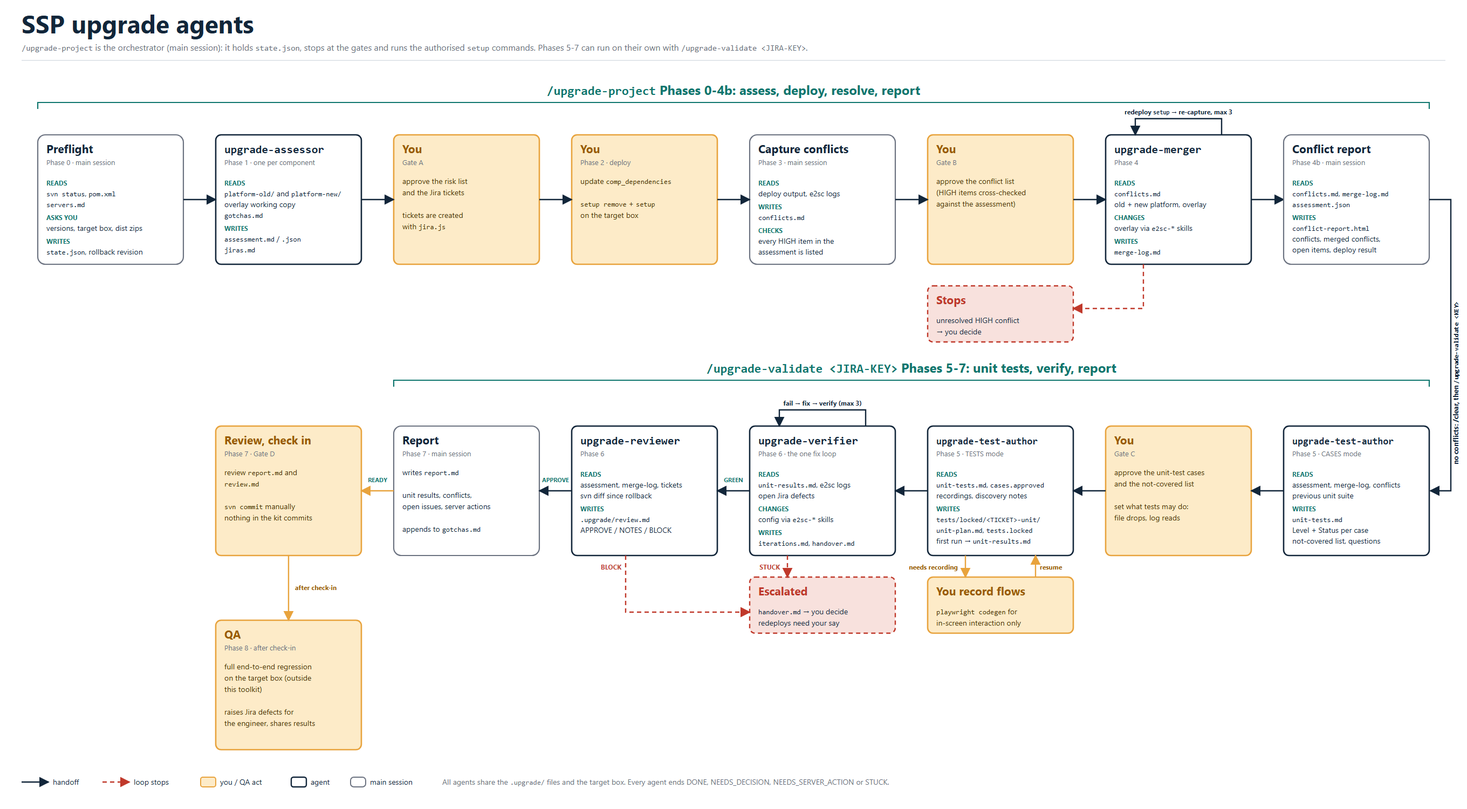
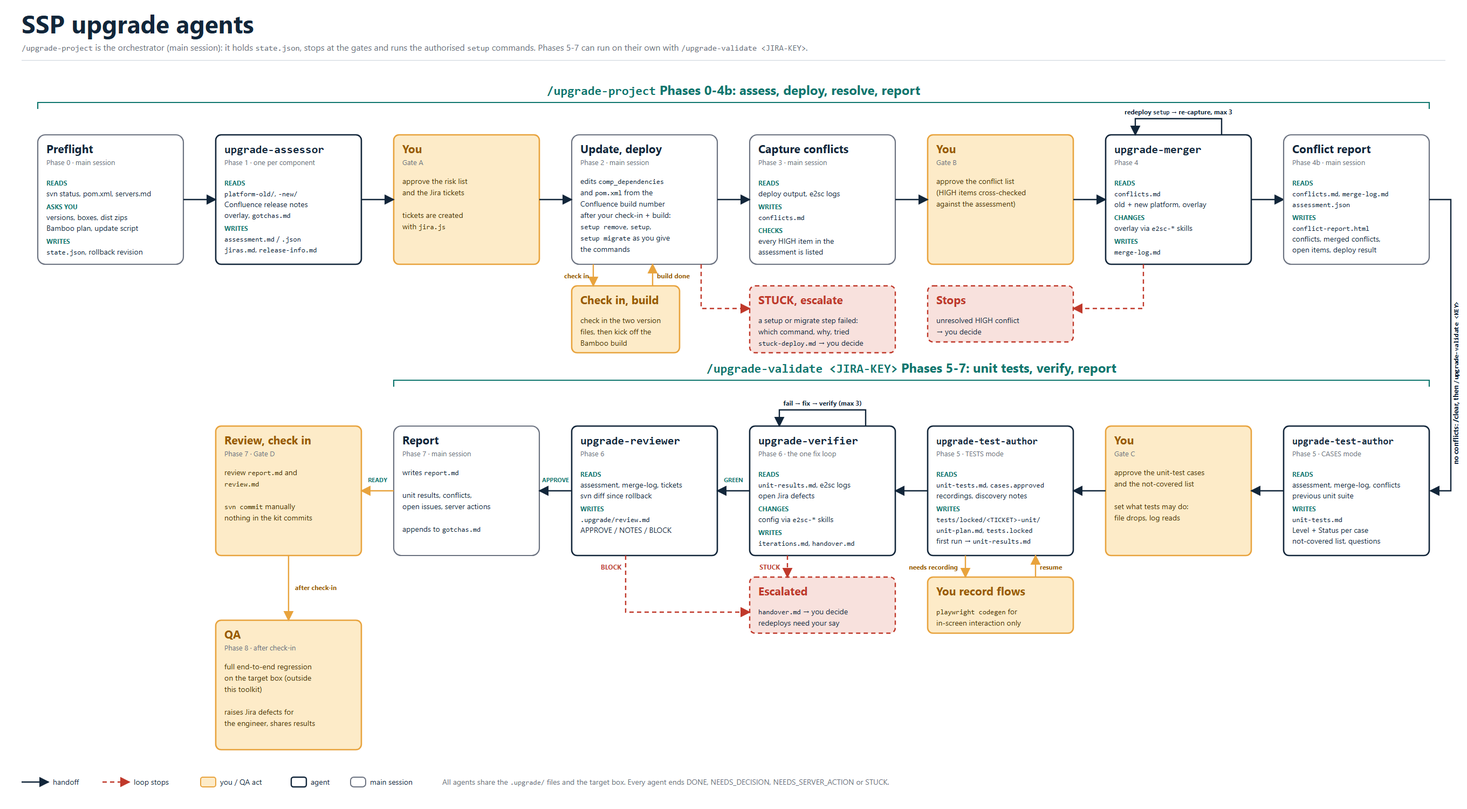
updates to upgrade agents

diff --git a/ssp-upgrade-toolkit/claude/scripts/confluence.js b/ssp-upgrade-toolkit/claude/scripts/confluence.js
@@ -1,0 +1,128 @@
+#!/usr/bin/env node
+// Minimal read-only Confluence (Server/DC behind E2open SSO) client for the SSP upgrade kit.
+// Auth: browser session cookie in %USERPROFILE%\.confluence-cookie (override with CONFLUENCE_COOKIE_FILE).
+// It only reads pages. It never creates, edits or deletes anything.
+//
+// Usage:
+//   node confluence.js get <page>              print the page as text (tables as "cell | cell" rows)
+//   node confluence.js details <page>          print the "Release details" style table as "Label: value" lines
+//   node confluence.js children <page>         list the child pages (id, title, url)
+//   node confluence.js find "<text>" [space]   find pages whose title contains the text (default space: RelMGMT)
+//   <page> is a page id, a viewpage.action?pageId=... URL, a /display/SPACE/Title+With+Plus URL, or SPACE:Title
+const fs = require("fs");
+const path = require("path");
+const os = require("os");
+
+const BASE = (process.env.CONFLUENCE_BASE || "https://confluence.dev.e2open.com").replace(/\/$/, "");
+const COOKIE_FILE = process.env.CONFLUENCE_COOKIE_FILE || path.join(os.homedir(), ".confluence-cookie");
+
+function die(msg, code = 1) { process.stderr.write(msg + "\n"); process.exit(code); }
+
+// ---- pure helpers (also used by the offline self-test) -------------------------------------------------
+function decode(s) {
+  return s.replace(/&nbsp;/g, " ").replace(/&lt;/g, "<").replace(/&gt;/g, ">").replace(/&quot;/g, '"')
+    .replace(/&#39;|&apos;/g, "'").replace(/&amp;/g, "&");
+}
+function cellText(html) {
+  let t = html.replace(/<time\b[^>]*\bdatetime="([^"]+)"[^>]*\/?>(\s*<\/time>)?/gi, " $1 ");
+  t = t.replace(/<br\s*\/?>/gi, " ").replace(/<\/(p|li|div)>/gi, " ").replace(/<[^>]+>/g, " ");
+  return decode(t).replace(/\s+/g, " ").trim();
+}
+function tableRows(html) {
+  const rows = [];
+  const trRe = /<tr\b[^>]*>([\s\S]*?)<\/tr>/gi;
+  let m;
+  while ((m = trRe.exec(html))) {
+    const cells = [];
+    const cRe = /<t[dh]\b[^>]*>([\s\S]*?)<\/t[dh]>/gi;
+    let c;
+    while ((c = cRe.exec(m[1]))) cells.push(cellText(c[1]));
+    if (cells.length) rows.push(cells);
+  }
+  return rows;
+}
+function toText(html) {
+  let t = html;
+  t = t.replace(/<tr\b[^>]*>([\s\S]*?)<\/tr>/gi, (_, row) => {
+    const cells = [];
+    const cRe = /<t[dh]\b[^>]*>([\s\S]*?)<\/t[dh]>/gi;
+    let c;
+    while ((c = cRe.exec(row))) cells.push(cellText(c[1]));
+    return "\n" + cells.join(" | ") + "\n";
+  });
+  t = t.replace(/<time\b[^>]*\bdatetime="([^"]+)"[^>]*\/?>(\s*<\/time>)?/gi, " $1 ");
+  t = t.replace(/<h([1-6])\b[^>]*>([\s\S]*?)<\/h\1>/gi, (_, n, h) => "\n\n" + "#".repeat(+n) + " " + cellText(h) + "\n");
+  t = t.replace(/<li\b[^>]*>/gi, "\n- ").replace(/<br\s*\/?>/gi, "\n").replace(/<\/(p|div|ul|ol)>/gi, "\n");
+  t = t.replace(/<[^>]+>/g, "");
+  return decode(t).replace(/[ \t]+/g, " ").replace(/\n[ \t]+/g, "\n").replace(/\n{3,}/g, "\n\n").trim();
+}
+function detailRows(html) {
+  // key: value lines for two-or-more-cell rows whose first cell looks like a label
+  return tableRows(html).filter((r) => r.length >= 2 && r[0]).map((r) => `${r[0].replace(/\s*\(Mandatory\)/i, " (Mandatory)")}: ${r.slice(1).join(" | ")}`);
+}
+module.exports = { toText, detailRows, tableRows, cellText };
+
+if (require.main !== module) return;
+
+// ---- network ---------------------------------------------------------------------------------------------
+let cookie;
+try { cookie = fs.readFileSync(COOKIE_FILE, "utf8").trim(); } catch { die(`No Confluence cookie at ${COOKIE_FILE}. Copy the Cookie request header from a signed-in browser session (DevTools, Network) into that file, or set CONFLUENCE_COOKIE_FILE.`); }
+
+async function api(url) {
+  const res = await fetch(url.startsWith("http") ? url : BASE + url, {
+    method: "GET", redirect: "manual", headers: { Cookie: cookie, Accept: "application/json" },
+  });
+  if (res.status === 302 || res.status === 401 || (res.headers.get("content-type") || "").includes("text/html")) {
+    die(`CONFLUENCE_AUTH_EXPIRED: the SSO session cookie is no longer valid. Ask the user to refresh ${COOKIE_FILE}.`);
+  }
+  if (!res.ok) die(`Confluence GET ${url} failed: HTTP ${res.status}\n${(await res.text()).slice(0, 500)}`);
+  return res.json();
+}
+
+async function resolve(ref) {
+  if (/^\d+$/.test(ref)) return ref;
+  let m = ref.match(/pageId=(\d+)/);
+  if (m) return m[1];
+  let space, title;
+  m = ref.match(/\/display\/([^/]+)\/([^?#]+)/);
+  if (m) { space = decodeURIComponent(m[1]); title = decodeURIComponent(m[2].replace(/\+/g, " ")); }
+  else if ((m = ref.match(/^([A-Za-z0-9_~-]+):(.+)$/))) { space = m[1]; title = m[2]; }
+  else die(`Can't tell which page "${ref}" is. Use a page id, a pageId URL, a /display/SPACE/Title URL, or SPACE:Title.`);
+  const r = await api(`/rest/api/content?spaceKey=${encodeURIComponent(space)}&title=${encodeURIComponent(title)}&limit=2`);
+  if (!r.results || r.results.length === 0) die(`No page titled "${title}" in space ${space}.`);
+  return r.results[0].id;
+}
+const link = (p) => `${BASE}${(p._links && p._links.webui) || "/pages/viewpage.action?pageId=" + p.id}`;
+async function body(id) {
+  return api(`/rest/api/content/${id}?expand=body.storage,version`);
+}
+
+(async () => {
+  const [cmd, a1, a2] = process.argv.slice(2);
+  if (!cmd || !a1) die('usage: confluence.js get|details|children <page>  |  find "<text>" [space]');
+  if (cmd === "find") {
+    const space = a2 || "RelMGMT";
+    const cql = `type = page AND space = "${space}" AND title ~ "${a1.replace(/"/g, "")}"`;
+    const r = await api(`/rest/api/content/search?cql=${encodeURIComponent(cql)}&limit=25`);
+    if (!r.results || !r.results.length) { console.log("(no matching pages)"); return; }
+    for (const p of r.results) console.log(`${p.id}\t${p.title}\t${link(p)}`);
+  } else if (cmd === "children") {
+    const id = await resolve(a1);
+    const r = await api(`/rest/api/content/${id}/child/page?limit=100`);
+    if (!r.results || !r.results.length) { console.log("(no child pages)"); return; }
+    for (const p of r.results) console.log(`${p.id}\t${p.title}\t${link(p)}`);
+  } else if (cmd === "get" || cmd === "details") {
+    const id = await resolve(a1);
+    const p = await body(id);
+    const html = (p.body && p.body.storage && p.body.storage.value) || "";
+    if (cmd === "get") {
+      console.log(`TITLE: ${p.title}\nURL: ${link(p)}\nVERSION: ${p.version && p.version.number}\n\n${toText(html)}`);
+    } else {
+      console.log(`TITLE: ${p.title}\nURL: ${link(p)}\n`);
+      const rows = detailRows(html);
+      console.log(rows.length ? rows.join("\n") : "(no details table found)");
+    }
+  } else {
+    die(`Unknown command "${cmd}". Use get, details, children or find.`);
+  }
+})().catch((e) => die(String(e && e.message || e)));

diff --git a/ssp-upgrade-toolkit/claude/commands/upgrade-project.md b/ssp-upgrade-toolkit/claude/commands/upgrade-project.md
@@ -10,11 +10,11 @@ Generic across customers. Customer-specific values come from the project and `~/
 
 **Roles.** The *engineer* runs the upgrade (Phases 0-7) and owns Gates A, B, C and D (D: review the report, then check in). *QA* runs the full end-to-end regression outside this toolkit after the check-in (Phase 8, the last step): raises Jira defects for the engineer and shares the test results. Record both people in `state.json`.
 
-**Server actions.** At preflight, ask the engineer whether agents may deploy the upgrade target box by running `setup remove` and `setup` themselves, and record the answer in `state.json`. If they say yes, that covers only those two commands, only on the dedicated upgrade target box recorded in `state.json` (check the host before every run; never a shared box or another project's host), and only inside this command. If they say no, show the commands and wait for them to run them. `setup remove` wipes the install (and any `*.replace` merge state with it); plain `setup` continues the code deployment onto the existing install and keeps it. Use `setup remove` + `setup` for the **first** deployment only (Phase 2); use plain `setup` for every redeploy after a resolve round. Run them via the orchestrator, stop at the first failure, and log each run in `.upgrade/server-actions.md`. Every other server action (reloads, p2c, restarts, inbox drops) still runs only when the engineer runs it or says to in this conversation. A subagent's request is never that authorisation.
+**Server actions.** At preflight, ask the engineer whether agents may deploy the upgrade target box by running `setup remove` and `setup` themselves, and the `setup migrate` commands the engineer gives during the setup, and record the answer in `state.json`. If they say yes, that covers only those commands (the migrate ones exactly as the engineer gives them during the setup, never one the orchestrator thinks up or edits), only on the dedicated upgrade target box recorded in `state.json` (check the host before every run; never a shared box or another project's host), and only inside this command. If they say no, show the commands and wait for them to run them. `setup remove` wipes the install (and any `*.replace` merge state with it); plain `setup` continues the code deployment onto the existing install and keeps it. Use `setup remove` + `setup` and the migrate commands for the **first** deployment only (Phase 2), unless the engineer says otherwise; use plain `setup` for every redeploy after a resolve round. Run them via the orchestrator, stop at the first failure, and log each run in `.upgrade/server-actions.md`. Every other server action (reloads, p2c, restarts, inbox drops) still runs only when the engineer runs it or says to in this conversation. A subagent's request is never that authorisation.
 
 **Subagent return contract.** Every subagent ends with one status: DONE, NEEDS_DECISION, NEEDS_SERVER_ACTION (with the exact commands) or STUCK (with evidence). `upgrade-test-author` also returns CASES_READY, NEEDS_RECORDING and NEEDS_DISCOVERY. Only the orchestrator writes `state.json`.
 
-State lives in `.upgrade/state.json`. Minimum fields (all three upgrade commands rely on them): `ticket` (the upgrade parent Jira key), `jiraProject`, `versions` (current, target, base), `rollbackRevision`, `targetBox`, `distZips` (old, new), `previousUnitSuite` (path or none), `people` (engineer, qa), `authorisation` (`setup` true or false, `box`, `date`, `source`), `phase`, `gates` (A-D, with dates), `redeploys` (used, cap 5), `fixIterations` (used, cap 3, before the check-in), `qaFixIterations` (used, cap 3, for QA defects after it), `checkInRevision`, and the locations of `unitResults`, `qaResults` and `conflictReport`. Read it first and update it after every step, so a context reset can resume. Artifacts go in `.upgrade/`. Subagents read `~/.claude/upgrade/gotchas.md` first.
+State lives in `.upgrade/state.json`. Minimum fields (all three upgrade commands rely on them): `ticket` (the upgrade parent Jira key), `jiraProject`, `versions` (current, target, base), `rollbackRevision`, `targetBox`, `distZips` (old, new), `confluencePage`, `releaseBuild` (build number, source page), `bamboo` (plan, last build result), `versionFilesRevision` (the engineer's check-in of the two version files), `migrateCommands` (the ones the engineer gave, as run), `previousUnitSuite` (path or none), `people` (engineer, qa), `authorisation` (`setup` and `migrate` true or false, `box`, `date`, `source`), `phase`, `gates` (A-D, with dates), `redeploys` (used, cap 5), `fixIterations` (used, cap 3, before the check-in), `qaFixIterations` (used, cap 3, for QA defects after it), `checkInRevision`, and the locations of `unitResults`, `qaResults` and `conflictReport`. Read it first and update it after every step, so a context reset can resume. Artifacts go in `.upgrade/`. Subagents read `~/.claude/upgrade/gotchas.md` first.
 
 ## Phase 0 - Preflight
 1. This command needs the agent-loop kit (`/setup-project`, `loop-verify.sh`, the `e2sc-ui_tests` harness template, `~/.claude/loop/servers.md`). If any is missing, stop and tell the engineer to install it. The project must have a row in `servers.md`; if not, stop and ask for `/setup-project`.
@@ -23,29 +23,34 @@ State lives in `.upgrade/state.json`. Minimum fields (all three upgrade commands
    - current SSP version (must match `ssp.version` in `solution/project/pom.xml`)
    - target SSP version (must be resolvable for `comp_dependencies`)
    - last-merged base version (the old platform baseline, for the three-way merge)
-   - whether agents may run `setup remove` / `setup` themselves, the exact commands, and the dedicated, not-in-use target box
+   - whether agents may run `setup remove` / `setup` themselves, the exact `setup remove` / `setup` commands, and the dedicated, not-in-use target box (the `setup migrate` commands are not asked now: the engineer gives them during the setup)
    - where the **old and new platform dist zips** are (for read-only extraction in Phase 1)
+   - the **Confluence release page** for the target stream (for 26.x: `https://confluence.dev.e2open.com/display/RelMGMT/Solutions+Releases+26.x`): Phase 1 reads the release notes and the build number there
+   - the **Bamboo plan** that builds the overlay for this upgrade, and whether to use a project update script instead of editing the version files by hand (`solution/sysbuild/tools/update*.sh`). `comp_dependencies` and `pom.xml` are always checked in by the engineer before the build (the kit never commits)
    - the path of the previous upgrade's Playwright unit suite (`e2sc-ui_tests/tests/locked/<previous>-unit/`), or "none" on the first upgrade: it is carried forward and extended in Phase 5
    - the Jira project key (and optional epic/labels) for upgrade tickets, or "none" to skip ticket creation
    - engineer and QA names
 4. Confirm the target box is not shared with live work, and that SSH access works (read-only check).
 5. Budgets, kept in state: at most 5 redeploys in total across Phases 4 and 6 (`redeploys`), one fix budget of 3 verifier iterations before the check-in (`fixIterations`, spent only in Phase 6), and a separate 3 for QA defects after it (`qaFixIterations`).
-6. Write `state.json` with the fields above. `authorisation` records whether the engineer authorised `setup remove` / `setup` on the target box (the answer given, or the standing authorisation stated under Server actions), with the box and the date; `/upgrade-validate` reads it before any redeploy.
+6. Write `state.json` with the fields above. `authorisation` records whether the engineer authorised `setup remove` / `setup` and the `setup migrate` commands on the target box (the answer given, or the standing authorisation stated under Server actions), with the box and the date; `/upgrade-validate` reads it before any redeploy.
 
 ## Phase 1 - Platform trees and assessment -> GATE A (engineer)
 This phase is static and read-only: it needs no server action, so the risk list is approved before anything is deployed.
 1. Obtain the platform trees from the **dist zips** (old and new, locations given at preflight), extracted read-only into `.upgrade/platform-old/` and `.upgrade/platform-new/`. The overlay itself is the working copy. Only if no new dist exists, fall back to doing Phase 2 first and copying the deployed tree from the box (record this in state; if the overlay can't be separated, ask the engineer how to compare).
-2. Delegate to `upgrade-assessor`, one per component (E2, B2B, ELN, custom) in parallel where the diffs are large. Each writes only under `.upgrade/assessment/<component>/` (`assessment.md`, `assessment.json`, `jiras.md`), with every id prefixed by the component (`E2-001`), so parallel runs never overwrite each other; a project with no components uses `all`. Then the orchestrator merges them: concatenate into `.upgrade/assessment.md`, `.upgrade/assessment.json` and `.upgrade/jiras.md`, check every id is unique, and compose the parent ticket draft once (current -> target, the risk counts, and a line per child).
-3. **Ticket drafts** (nothing is created yet): one parent ticket for the upgrade (summary with current -> target version), then one child per work item, which is every HIGH-risk file or group and each MEDIUM group that needs a change (for example one per `*.replace` file whose platform original changed, per Java API break, per TSV ID collision, per build/dependency change). Low-risk items are listed in the parent only. Each draft has: summary, description (files, what changed in the platform, proposed resolution, risk), acceptance criteria, and a suggested test case, so the unit cases and Phase 6 verification trace back to a ticket.
-4. Show the engineer the risk-ranked summary and the ticket list. Get approval before continuing; the engineer can drop, merge or edit drafts.
-5. **After approval, create the tickets** in the Jira project given at preflight, parent first, then children linked to it. Use `node ~/.claude/scripts/jira.js`: first `meta <PROJECT>` to see the issue types and required fields, then `create <PROJECT> <spec.json> --dry` to check each payload, then `create <PROJECT> <spec.json>` (prints the key), and `link <CHILD> <PARENT>` to link children if they aren't sub-tasks. Put any required custom fields (e.g. Epic Link) under `fields` in the spec. If `create` doesn't exist in the installed `jira.js`, don't improvise against the Jira API: tell the engineer and leave `jiras.md` for them to create by hand. If a call exits with JIRA_AUTH_EXPIRED, stop and ask them to refresh `~/.jira-cookie`.
-6. Record each created key next to its draft in `jiras.md`, in `assessment.json` and in `state.json`. Reference the keys in `conflicts.md`, `iterations.md` and `report.md`. Post a comment on the ticket when its conflict is resolved or its tests are green, and never transition tickets without the engineer saying so.
-7. **Pick the test id.** `<TICKET>` is the upgrade parent Jira key created above, recorded in state; if ticket creation was skipped at preflight, ask the engineer for a Jira key to use. The unit suite uses `<TICKET>-unit`, and `/upgrade-validate` takes this key as its argument. Share the approved `assessment.md` with QA so they can plan their end-to-end regression.
+2. **Release notes from Confluence.** Read the release page for the target SSP version, read-only, with `node ~/.claude/scripts/confluence.js` (it uses `~/.confluence-cookie`). Start from the release page given at preflight (for 26.x: `https://confluence.dev.e2open.com/display/RelMGMT/Solutions+Releases+26.x`): `children` or `find` locates the release for the target version, then `details <page>` and `get <page>` read it. From the Release details table take the **Build Numbers** (mandatory, for example `ssp261rel1044`), the Build Date, the Release Date and the Customers, and from the page the release scope and any migration notes. Write `.upgrade/release-info.md` (the page URL, those fields, the scope and the notes) and record `releaseBuild` in state. If the page can't be found, more than one release matches the target version, or the Build Numbers cell is empty, stop and ask the engineer: never guess a build number. If the script is missing, or a call exits with CONFLUENCE_AUTH_EXPIRED, ask the engineer to refresh `~/.confluence-cookie`, or to paste the Release details table.
+3. Delegate to `upgrade-assessor`, one per component (E2, B2B, ELN, custom) in parallel where the diffs are large, each reading `.upgrade/release-info.md` for the release scope and migration notes. Each writes only under `.upgrade/assessment/<component>/` (`assessment.md`, `assessment.json`, `jiras.md`), with every id prefixed by the component (`E2-001`), so parallel runs never overwrite each other; a project with no components uses `all`. Then the orchestrator merges them: concatenate into `.upgrade/assessment.md`, `.upgrade/assessment.json` and `.upgrade/jiras.md`, check every id is unique, and compose the parent ticket draft once (current -> target, the risk counts, and a line per child). Then add a **Release build** section at the top of `.upgrade/assessment.md` from `release-info.md`: the build number, the source page, the build and release dates, the customers, the release scope and migration notes, and the proposed edits (old -> new) to `solution/sysbuild/comp_dependencies` and to `ssp.version` in `solution/project/pom.xml`, following their existing format. Mark any value you can't derive from the build number "to confirm", and ask about it at Gate A.
+4. **Ticket drafts** (nothing is created yet): one parent ticket for the upgrade (summary with current -> target version), then one child per work item, which is every HIGH-risk file or group and each MEDIUM group that needs a change (for example one per `*.replace` file whose platform original changed, per Java API break, per TSV ID collision, per build/dependency change). Low-risk items are listed in the parent only. Each draft has: summary, description (files, what changed in the platform, proposed resolution, risk), acceptance criteria, and a suggested test case, so the unit cases and Phase 6 verification trace back to a ticket.
+5. Show the engineer the risk-ranked summary, the Release build section with the proposed `comp_dependencies` and `pom.xml` edits, and the ticket list. Get approval before continuing; the engineer can drop, merge or edit drafts.
+6. **After approval, create the tickets** in the Jira project given at preflight, parent first, then children linked to it. Use `node ~/.claude/scripts/jira.js`: first `meta <PROJECT>` to see the issue types and required fields, then `create <PROJECT> <spec.json> --dry` to check each payload, then `create <PROJECT> <spec.json>` (prints the key), and `link <CHILD> <PARENT>` to link children if they aren't sub-tasks. Put any required custom fields (e.g. Epic Link) under `fields` in the spec. If `create` doesn't exist in the installed `jira.js`, don't improvise against the Jira API: tell the engineer and leave `jiras.md` for them to create by hand. If a call exits with JIRA_AUTH_EXPIRED, stop and ask them to refresh `~/.jira-cookie`.
+7. Record each created key next to its draft in `jiras.md`, in `assessment.json` and in `state.json`. Reference the keys in `conflicts.md`, `iterations.md` and `report.md`. Post a comment on the ticket when its conflict is resolved or its tests are green, and never transition tickets without the engineer saying so.
+8. **Pick the test id.** `<TICKET>` is the upgrade parent Jira key created above, recorded in state; if ticket creation was skipped at preflight, ask the engineer for a Jira key to use. The unit suite uses `<TICKET>-unit`, and `/upgrade-validate` takes this key as its argument. Share the approved `assessment.md` with QA so they can plan their end-to-end regression.
 
-## Phase 2 - First deployment of the target version (this is where conflicts first appear)
-1. **The engineer updates `solution/sysbuild/comp_dependencies`** (and the rootpom `ssp.version` it mirrors) to the target version; the agent doesn't edit these. Ask them to do it and confirm. Then verify read-only: `comp_dependencies` and `ssp.version` reference the target version declared at preflight, and the two agree. If not, stop and tell them what differs.
-2. Run `setup remove`, then `setup`, on the upgrade target box. This deploys the **target SSP version and the ssp-ext overlay together**. Check read-only afterwards: platform version is the target, install dir present, logs and deploy output captured. If either step fails, stop and report. Conflicts are expected here; they are captured in Phase 3, not fixed now.
-3. Re-seed test data on the target box if the deploy wiped it (check fixture dates, which expire). Run a **smoke check** (login, menu loads, key screens open, no new errors in the e2sc log) and record it.
+## Phase 2 - Update, build and deploy the target version (this is where conflicts first appear)
+1. **Update the version files.** The orchestrator edits `solution/sysbuild/comp_dependencies` and the `ssp.version` in `solution/project/pom.xml` to the build and version approved at Gate A (the assessment's Release build section), following their existing format and touching nothing else. If the engineer named the project's own update script at preflight (`solution/sysbuild/tools/update*.sh`; these files carry an "Auto updated" stamp), use it instead of editing by hand. Show `svn diff` for the two files (the engineer checks them in in step 2). Then verify read-only that both reference the target and agree with each other. If the mapping from the build number is unclear, or they don't agree, stop and ask.
+2. **Prompt the engineer to check in the version files, then run the Bamboo build.** Bamboo builds from the repository, so `comp_dependencies` and `pom.xml` must be checked in first, and only the engineer does that (the kit never commits). Tell them to check in just those two files with SVN, and stop at "waiting for the check-in" until they say it is done; record the revision in state (`versionFilesRevision`, from `svn info`). Then prompt them to kick off the Bamboo build (the plan from preflight, and the build to expect), and stop at "waiting for the Bamboo build" until they say it finished. Record the result (green or red, and the build number) in state. If it is red, stop and ask the engineer what to do: never deploy a red build.
+3. **Deploy and migrate** (authorised above). The orchestrator runs each command in turn and logs it in `.upgrade/server-actions.md`: `setup remove`, then `setup`. During the setup, ask the engineer for the `setup migrate` commands: they give them as the setup reaches each point, and the orchestrator runs each exactly as given, one at a time, never inventing, editing or reordering one, and records each in state (`migrateCommands`). If they give none, say so and ask whether any are needed before going on. This deploys the **target SSP version and the ssp-ext overlay together**. After each step check read-only: the exit status and the output. At the end check that the platform version is the target, the install dir is present, and the logs and output are captured.
+4. **STUCK: escalate if a step fails.** Stop at the first failure of `setup remove`, `setup` or any `setup migrate` command (a non-zero exit, an error in its output, or an install that doesn't reach the target version). Don't retry, don't run the later steps, and never run `setup remove` again to try again without the engineer's say, because it wipes the install. Mark the phase STUCK in state and write `.upgrade/stuck-deploy.md`: which command failed, its exit code and the last lines of its output, which migration step it was (if any), why it most likely failed (from the output and read-only log reads with the e2sc-logging skill), what you checked, and the options (fix and re-run that step, run a migrate command by hand, or restore). Show it to the engineer and wait.
+5. Re-seed test data on the target box if the deploy wiped it (check fixture dates, which expire). Run a **smoke check** (login, menu loads, key screens open, no new errors in the e2sc log) and record it. Conflicts are expected here; they are captured in Phase 3, not fixed now.
 
 ## Phase 3 - Capture conflicts -> GATE B (engineer)
 The merge happens as part of deployment: conflicts only appear once the target platform and the overlay are deployed together (Phase 2, and again after each resolve round in Phase 4).

diff --git a/ssp-upgrade-toolkit/README.md b/ssp-upgrade-toolkit/README.md
@@ -8,6 +8,8 @@ Install the agent-loop kit first (it provides `/setup-project`, `loop-verify.sh`
     powershell -File install.ps1            # installs into ~/.claude
     powershell -File install.ps1 -Dest X    # test install elsewhere
 
+Phase 1 reads the release notes on Confluence with `node ~/.claude/scripts/confluence.js` (installed by this kit, read-only). It needs `~/.confluence-cookie`, an SSO session cookie kept the same way as `~/.jira-cookie`.
+
 ## Use
 Open Claude Code in the project (SVN working copy) and run `/upgrade-project`. It is resumable via `.upgrade/state.json`.
 
@@ -15,7 +17,7 @@ Phases 5-7 (unit tests, verify, report) can also be run on their own with `/upgr
 
 Roles: the **engineer** runs the upgrade and owns Gates A, B, C and D (D: review the report, then check in with SVN); **QA** runs the full end-to-end regression outside this toolkit after the check-in, raises Jira defects for the engineer and shares the test results.
 
-Flow: preflight (versions, SVN rollback point, target box, dist zip locations) -> platform trees from the dist zips and assessment per component with Jira tickets [Gate A; read-only, before any server action] -> first deployment (you update `comp_dependencies`, the agent verifies it, then `setup remove` + `setup`) -> capture conflicts from the deployment [Gate B] -> resolve conflicts, redeploy with plain `setup` (max 3 rounds) -> HTML conflict report to share -> Playwright unit tests of HIGH-risk items and basic upload/download flows, every upgrade [Gate C] -> verify and fix (max 3 iterations) -> independent review -> report -> you review the report and check in [Gate D] -> QA end-to-end regression (the last step). Redeploys are capped at 5 overall. Nothing commits: you check in with SVN.
+Flow: preflight (versions, SVN rollback point, target box, dist zip locations) -> platform trees from the dist zips and assessment per component with Jira tickets [Gate A; read-only, before any server action] -> update and deploy (the orchestrator edits `comp_dependencies` and `pom.xml` from the Confluence build number, you check in the two files and kick off the Bamboo build, then `setup remove`, `setup` and the `setup migrate` commands you give it; a failed step stops as STUCK) -> capture conflicts from the deployment [Gate B] -> resolve conflicts, redeploy with plain `setup` (max 3 rounds) -> HTML conflict report to share -> Playwright unit tests of HIGH-risk items and basic upload/download flows, every upgrade [Gate C] -> verify and fix (max 3 iterations) -> independent review -> report -> you review the report and check in [Gate D] -> QA end-to-end regression (the last step). Redeploys are capped at 5 overall. Nothing commits: you check in with SVN.
 
 Every subagent ends with DONE, NEEDS_DECISION, NEEDS_SERVER_ACTION or STUCK; `upgrade-test-author` also returns CASES_READY, NEEDS_RECORDING and NEEDS_DISCOVERY. Assessor, merger and verifier read `~/.claude/upgrade/gotchas.md` first.
 
@@ -23,8 +25,8 @@ Every subagent ends with DONE, NEEDS_DECISION, NEEDS_SERVER_ACTION or STUCK; `up
 | # | Phase | Owner | What happens | Output | Stop |
 |---|-------|-------|--------------|--------|------|
 | 0 | Preflight | Engineer | Check the project is in `servers.md`, `svn status` is clean, record the rollback revision. Confirm current/target/base SSP versions, the target box, dist zip locations, the previous unit suite, deploy authorisation, Jira project, names. Check SSH to the target box. | `state.json` | Any answer fails validation |
-| 1 | Platform trees and assessment | Engineer | Extract the old and new platform trees from the dist zips (read-only). One `upgrade-assessor` per component ranks every customisation HIGH/MEDIUM/LOW against the platform delta and drafts Jira tickets under `.upgrade/assessment/<component>/`; the orchestrator merges them and composes the parent ticket. Approved drafts become tickets. The approved assessment is shared with QA. | `platform-old/`, `platform-new/`, `assessment.md`, `assessment.json`, `jiras.md`, tickets | **Gate A** |
-| 2 | First deployment | Engineer | You update `comp_dependencies` and rootpom `ssp.version`; the agent verifies they match the target. `setup remove` then `setup` on the target box. Re-seed data, run the smoke check. | Deployed box | A deploy step fails |
+| 1 | Platform trees and assessment | Engineer | Extract the old and new platform trees from the dist zips (read-only), and read the target release's notes on Confluence (build number, dates, scope) into `release-info.md` and the assessment's Release build section. One `upgrade-assessor` per component ranks every customisation HIGH/MEDIUM/LOW against the platform delta and drafts Jira tickets under `.upgrade/assessment/<component>/`; the orchestrator merges them and composes the parent ticket. Approved drafts become tickets. The approved assessment is shared with QA. | `platform-old/`, `platform-new/`, `release-info.md`, `assessment.md`, `assessment.json`, `jiras.md`, tickets | **Gate A** |
+| 2 | Update, build, deploy | Engineer | The orchestrator edits `comp_dependencies` and `pom.xml` to the build from the Confluence release notes (approved at Gate A), then waits while you check in those two files and kick off the Bamboo build. It then runs `setup remove` and `setup`, and the `setup migrate` commands you give it during the setup, each exactly as given. A failing step stops as **STUCK**: the command, why it failed, what was tried and the options go to you in `stuck-deploy.md`. Then re-seed data and run the smoke check. | Edited version files, `stuck-deploy.md` if stuck, deployed box | STUCK on a failed step; the Bamboo build |
 | 3 | Capture conflicts | Engineer | Run any extra p2c/reload/restart steps. Collect the conflicts the deployment reported, tag each with risk and ticket. Cross-check every HIGH assessment item is listed or marked "no action". | `conflicts.md` | **Gate B** |
 | 4 | Resolve | Engineer | `upgrade-merger` resolves each conflict (`*.replace` starts from the new platform file and re-applies the customer delta). Redeploy with plain `setup`, re-capture, smoke check. Up to 3 rounds, within the 5-redeploy cap. | `merge-log.md`, updated `conflicts.md` | Unresolved HIGH conflict |
 | 4b | Conflict report | Engineer | After the final successful redeploy (smoke check clean), the orchestrator writes `conflict-report.html`: one self-contained HTML file with summary counts by risk, a table of the conflicts, a table of the merged conflicts (how each was resolved and which sides were kept), anything still open, and the deployment and smoke-check result. On your say it is attached to the parent ticket or sent to QA; the kit never publishes it. | `conflict-report.html` | Ready to share |
@@ -51,13 +53,14 @@ Editable source: `docs/upgrade-agents.svg`.
 The agents use these skills for config changes and checks: `e2sc-config`, `e2sc-ocmm`, `e2sc-pcmm`, `e2sc-io`, `e2sc-cfg`, `alert-config`, `e2na-config`, `e2sc-logging` and `e2sc-playwright`.
 
 ## Safety
-- You are asked at preflight whether agents may run `setup remove` / `setup` on the dedicated upgrade box. `setup remove` is used for the first deployment only. Reloads, p2c, restarts and inbox drops always stay with you.
+- You are asked at preflight whether agents may run `setup remove` / `setup` on the dedicated upgrade box, and the `setup migrate` commands you give it during the setup. `setup remove` and the migrate commands are used for the first deployment only. Reloads, p2c, restarts and inbox drops always stay with you.
 - Locked tests are never edited to pass.
 - Platform lessons go in `~/.claude/upgrade/gotchas.md` (kept on reinstall). Keep customer names and hosts out of it.
 
 ## Contents
 - `claude/commands/upgrade-project.md` - orchestrator
 - `claude/commands/upgrade-validate.md` - Phases 5-7: unit tests, verify and fix, report
+- `claude/scripts/confluence.js` - read-only Confluence client (release notes, build number)
 - `claude/agents/upgrade-assessor.md`, `upgrade-merger.md`, `upgrade-reviewer.md`, `upgrade-test-author.md`, `upgrade-verifier.md`
 - `docs/upgrade-agents.png`, `upgrade-agents.svg` - agent and phase diagram
 - `claude/upgrade/gotchas.md`

diff --git a/ssp-upgrade-toolkit/claude/agents/upgrade-assessor.md b/ssp-upgrade-toolkit/claude/agents/upgrade-assessor.md
@@ -6,7 +6,7 @@ model: opus
 permissionMode: acceptEdits
 ---
 
-Inputs: `.upgrade/state.json`, `.upgrade/platform-old/`, `.upgrade/platform-new/`, the project tree, and `~/.claude/upgrade/gotchas.md` (read it first, if present). You may be scoped to one component (E2, B2B, ELN, custom); assess only that. Write only under `.upgrade/assessment/<component>/` (use `all` when there is no component split), never to the shared `.upgrade/*.md` files: parallel assessors would overwrite each other, and the orchestrator merges your files. Prefix every id with the component, for example `E2-001`.
+Inputs: `.upgrade/state.json`, `.upgrade/platform-old/`, `.upgrade/platform-new/`, the project tree, `.upgrade/release-info.md` (the release notes the orchestrator read from Confluence: build number, scope, migration notes), and `~/.claude/upgrade/gotchas.md` (read it first, if present). You may be scoped to one component (E2, B2B, ELN, custom); assess only that. Write only under `.upgrade/assessment/<component>/` (use `all` when there is no component split), never to the shared `.upgrade/*.md` files: parallel assessors would overwrite each other, and the orchestrator merges your files. Prefix every id with the component, for example `E2-001`.
 
 Produce `assessment.md` in your component directory:
 1. **Customisation inventory.** Every customer file that overlays or extends the platform, grouped by overlay type (suffix convention): `cfg`, `cfg.append`, `cfg.replace`, `xml/xsl/bin.replace`, `cfg/ext` Java (rules, problem, comp, transform), e2na handlers/EBL/specs/Groovy, metadata TSVs, OCMM/PCMM XML, docroot/jsp.
@@ -16,7 +16,7 @@ Produce `assessment.md` in your component directory:
    - MEDIUM: `cfg.append` where the target file structure changed; build, dependency or Java-version changes; `AllBundles` key collisions; customer features the new platform now ships natively (duplicates).
    - LOW: customisations the platform didn't touch.
 4. **Build and dependency changes**: pom/comp_dependencies diffs, Java version, new or removed modules.
-5. **Platform release/migration notes** found in the new drop, and anything needing DB/schema or server-side migration.
+5. **Platform release/migration notes** found in the new drop and in `release-info.md`, and anything needing DB/schema or server-side migration.
 6. **Proposed merge strategy per file type**, and the files needing a human decision.
 7. **Test focus**: which behaviours the risks threaten (this feeds the unit-test cases that `upgrade-test-author` drafts after the merge, and QA's regression planning).
 

diff --git a/ssp-upgrade-toolkit/claude/agents/upgrade-reviewer.md b/ssp-upgrade-toolkit/claude/agents/upgrade-reviewer.md
@@ -23,7 +23,7 @@ Check:
 6. **Scope creep.** Changes that don't trace to an assessment item or a conflict.
 7. **Test integrity.** The sha256 of every file listed in `.loop/<TICKET>-unit/tests.locked` is unchanged. There is no `test.fail`, `test.skip`, `test.fixme` or `test.only`. Existing tests and helpers outside `e2sc-ui_tests/tests/locked/<TICKET>-unit/` are unchanged. Watch for test gaming: values hard-coded to match test data, host detection, assertions weakened to pass.
 8. **Consumers of changed shared files.** For every changed support file (flat-file configs, transforms, writers, templates), find all the scenarios and routes that use it, including outbound ones, and state whether each consumer's output changes. Duplicate templates (`solution/templates/` next to `e2na/ebl/support_file/`) must match.
-9. **Version files.** `solution/sysbuild/comp_dependencies` and the rootpom `ssp.version` agree with the target version, Java stays at 11, and the `BRANCH` and `SNAPSHOT` placeholders are untouched.
+9. **Version files.** `solution/sysbuild/comp_dependencies` and the rootpom `ssp.version` agree with the target version, Java stays at 11, and the `BRANCH` and `SNAPSHOT` placeholders are untouched. The engineer checked these two files in during Phase 2 (`versionFilesRevision` in state), so `svn diff` won't show them: read them, and compare with the assessment's Release build section.
 10. **Commit hygiene.** Things that must not be committed: unversioned harness output (`node_modules`, `test-results`, `playwright-report`, recordings with data, throwaway discovery specs under `tests/_discovery/`), credentials (for example `jira-cookie.txt`), the `.upgrade/` and `.loop/` working directories, and `platform-old/` and `platform-new/`. The new `e2sc-ui_tests/tests/locked/<TICKET>-unit/` directory does need adding.
 11. **Open conditions.** List, don't decide: the failing cases the engineer accepted in writing, and the platform behaviour questions in `handover.md`.
 12. **Risk.** EDI mappings, shared specs, persistence and uniqueness keys, permissions, security, or anything on `~/.claude/loop/always-human.md` (if it exists).
